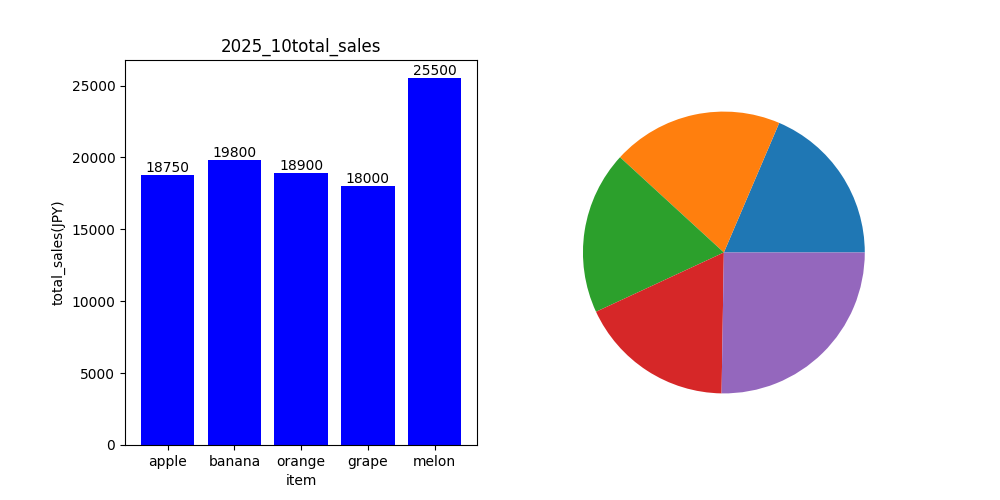
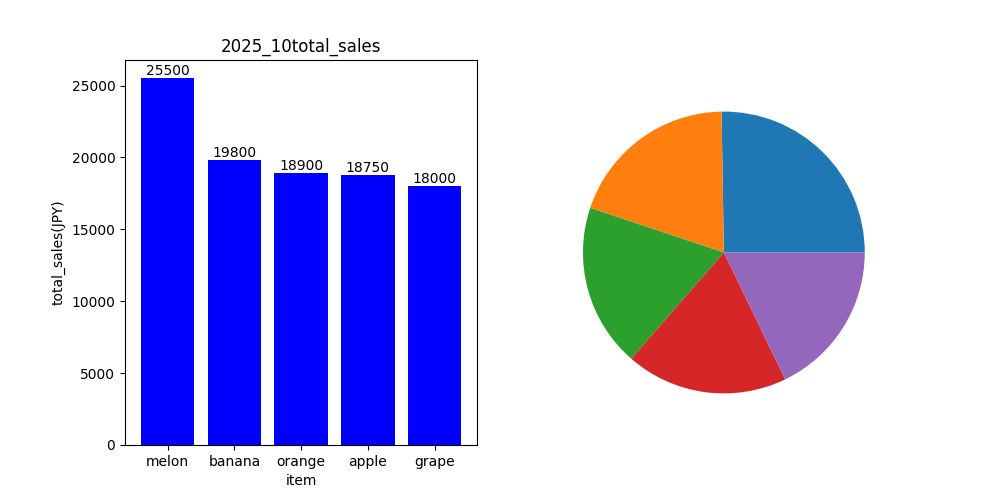
グラフ用のソートdf作成、次回、トータルセールスが0の場合のガード処理

diff --git a/basic_pandas_matplotlib/day11_2.py b/basic_pandas_matplotlib/day11_2.py
@@ -42,8 +42,9 @@ for csv_path in csv_files:
         
         
     df["total"]           	= df["price"] * df["count"]
-    total_sales			    = int(round(df["total"].sum()))
-    average_price   		= int(round(df["price"].mean()) if len(df) else 0)
+    total_sales			    = int(round(df["total"] * df["count"]).sum())
+    total_count             = int(round(df["count"].sum()))
+    average_price   		= int(round(total_sales / total_count if total_count > 0 else 0))
     top_sales_item_name		= df["item"][df["total"].idxmax()]
     top_sales_item_total    = df["total"].max()
     top_share_item_rate     = round(top_sales_item_total / total_sales * 100, 1)
@@ -72,6 +73,7 @@ for csv_path in csv_files:
     plot_df        = df.sort_values("total",ascending=False).reset_index(drop=True)
     graph_labels   = plot_df["item"]
     graph_total    = plot_df["total"]
+    print(plot_df)
     # 棒グラフの作成
     bars = axes[0].bar(
         graph_labels,
